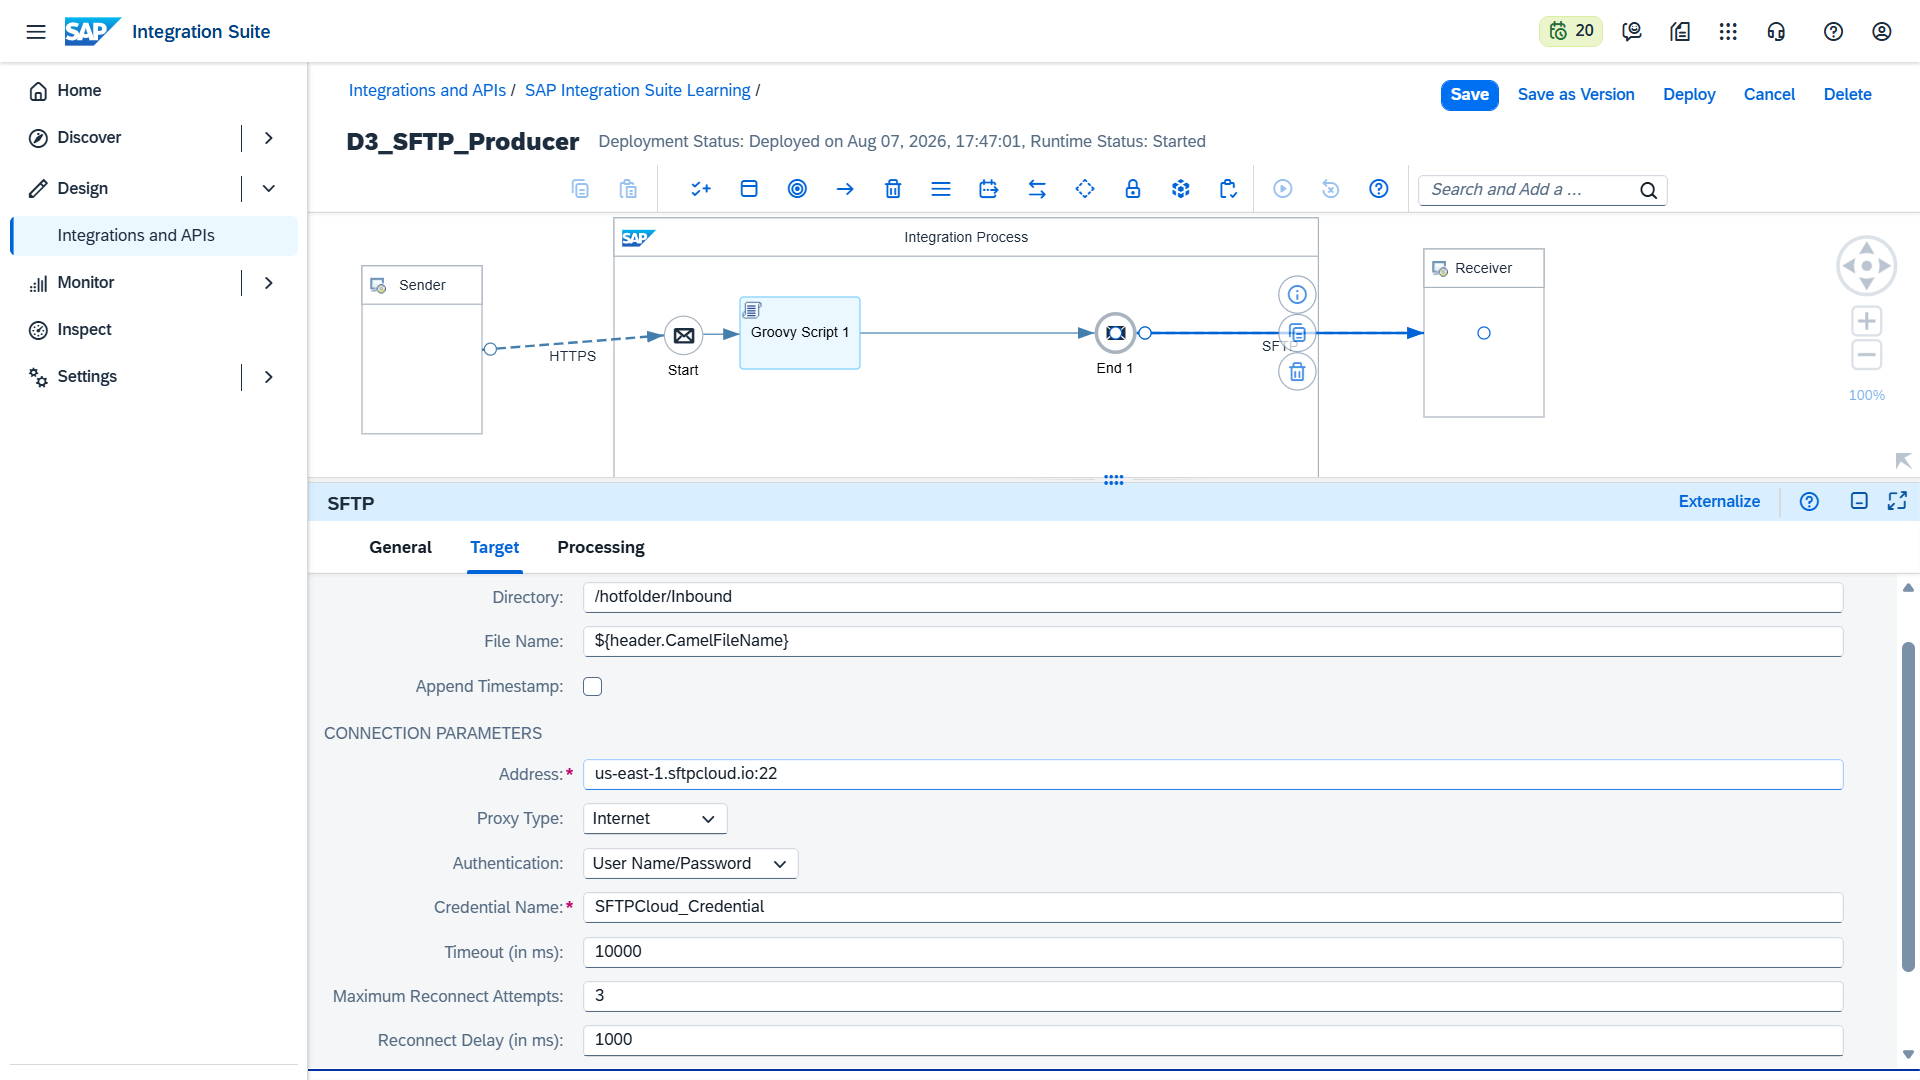
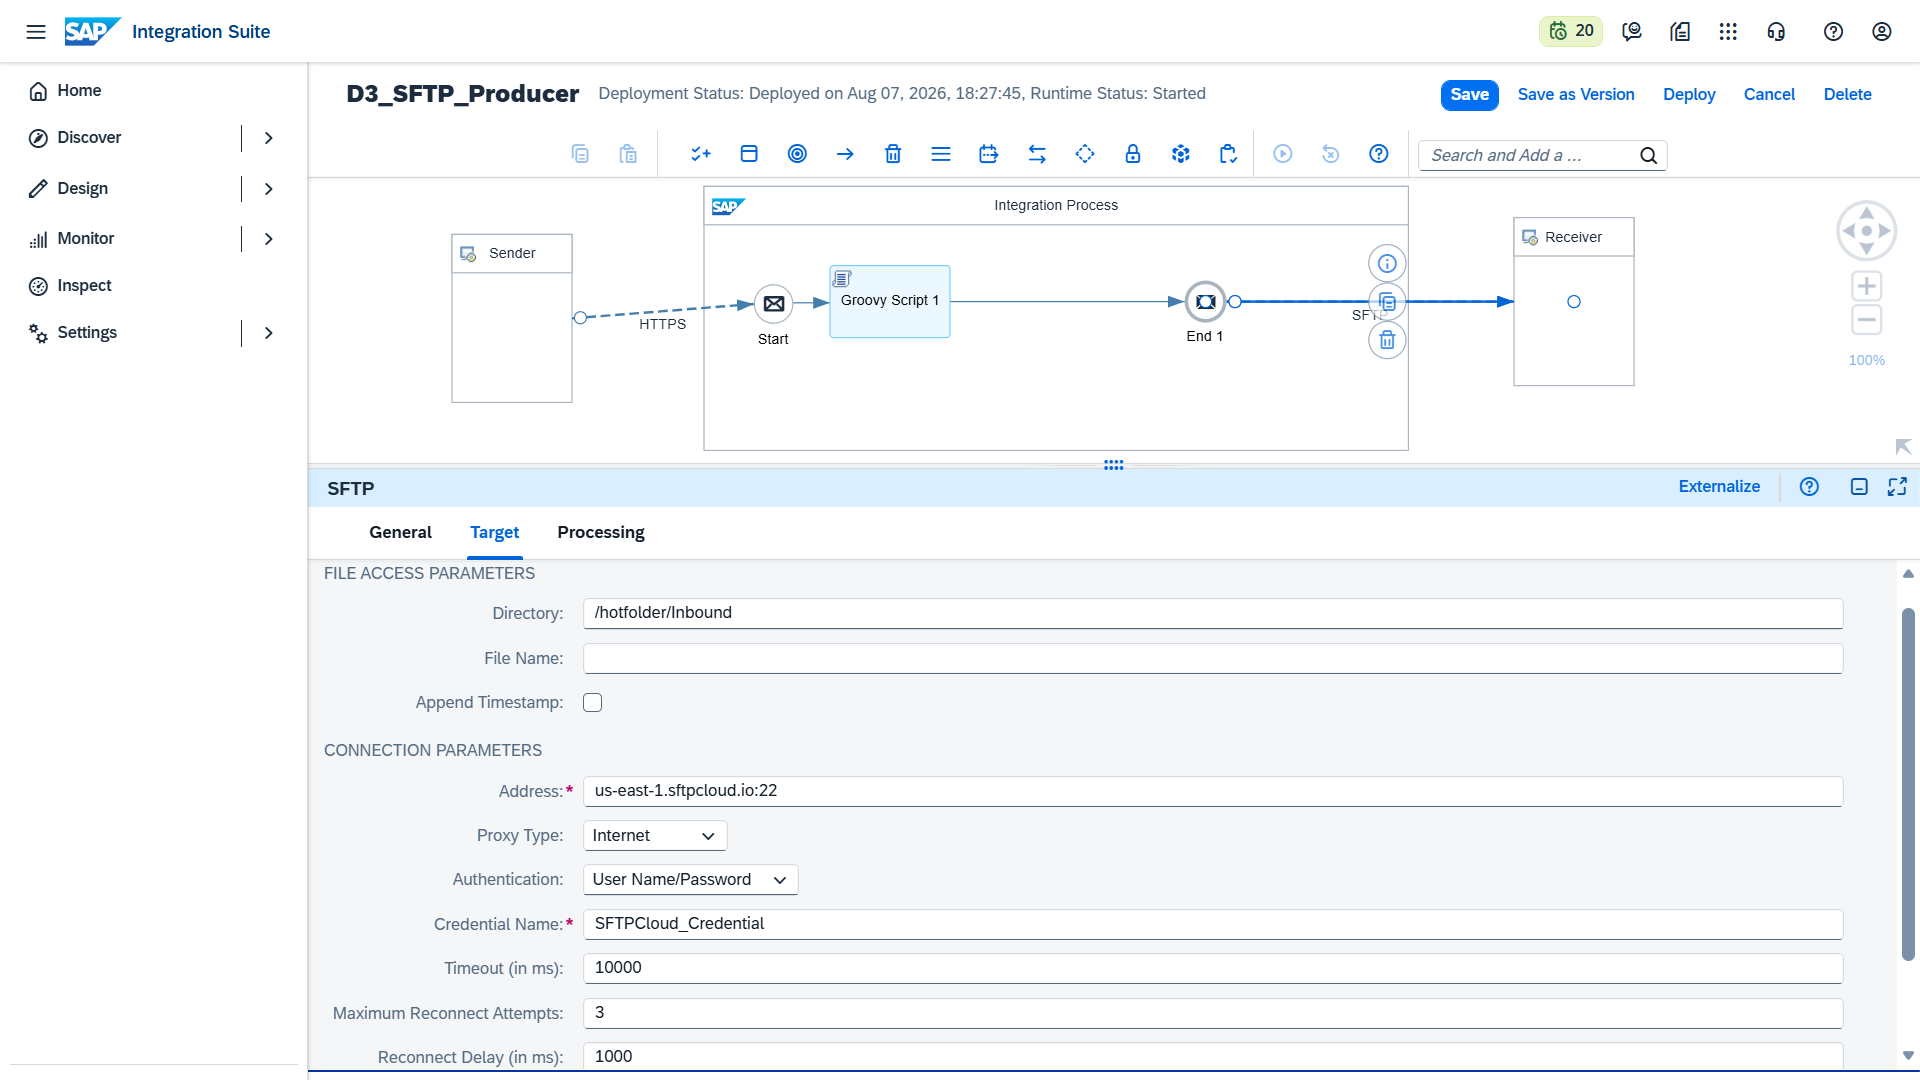
docs: corrige diagrama mermaid do D3 e adiciona navegacao (bloco anterior/proximo) nos docs D2 e D3

diff --git a/docs/18-d3-sftp-adapter.md b/docs/18-d3-sftp-adapter.md
@@ -272,7 +272,17 @@ Com o Producer validado de ponta a ponta (incluindo a confirmação externa no s
 - **SAP Integration Suite** (Cloud Integration – Trial)
 - **Postman** (collection `D3_SFTP_Producer`, variáveis `{{base_url}}`/`{{clientid}}`/`{{clientsecret}}`)
 - **SFTPCloud** — servidor SFTP gratuito de teste (7 dias, sem cartão de crédito) — [sftpcloud.io](https://sftpcloud.io/)
+---
 
+## ✅ Conclusão
+
+O cenário D3 introduziu a **integração de arquivos via SFTP**, simulando a liberação de uma Ordem de Produção no SAP e sua entrega para um sistema MES via hot folder — um padrão real e amplamente utilizado na indústria quando não há interface RFC/IDoc nativa disponível.
+
+**Recursos praticados:** SFTP Receiver Adapter · Security Material (User Credentials + SSH Known Hosts) · Conectividade com servidor SFTP externo · Groovy Script (montagem de arquivo XML, geração de nome dinâmico) · Troubleshooting de conversão de tipos em headers
+
+**Bloco anterior:** ./17-d2-soap-adapter.md
+
+**Próximo cenário:** *(em construção — D3_SFTP_Consumer, parte 2 deste mesmo cenário)*
 ---
 
 ## 👤 Autor

diff --git a/docs/17-d2-soap-adapter.md b/docs/17-d2-soap-adapter.md
@@ -302,6 +302,19 @@ Durante a construção deste cenário, foram identificados e corrigidos 5 proble
 - **Postman** (collection `D2_SOAP_Adapter`, variáveis `{{base_url}}`/`{{clientid}}`/`{{clientsecret}}`)
 - **Web Service público**: [NumberConversion – dataaccess.com](https://www.dataaccess.com/webservicesserver/numberconversion.wso?op=NumberToWords)
 
+
+---
+
+## ✅ Conclusão
+
+O cenário D2 aprofundou o uso do **SOAP Adapter**, indo além de uma chamada simples: o iFlow integra com um Web Service SOAP público externo, usando o padrão **Split → Process → Gather** para processar múltiplos valores em paralelo e consolidar tudo em uma única resposta síncrona.
+
+**Recursos praticados:** SOAP (SOAP 1.x) Receiver Adapter · Configuração Manual sem WSDL · General Splitter · Gather (Scatter-Gather síncrono) · Groovy Script (parsing XML, montagem de envelope SOAP, conversão de tipos)
+
+**Bloco anterior:** ./16-d1-odata-adapter.md
+
+**Próximo cenário:** [D3 – SFTP Adapter](./18
+
 ---
 
 ## 👤 Autor
